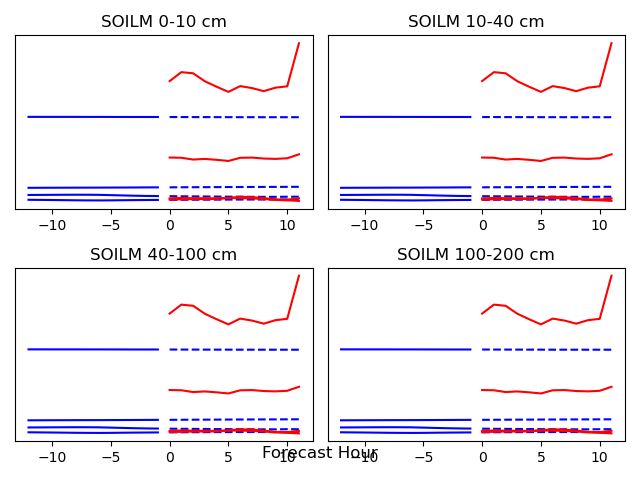
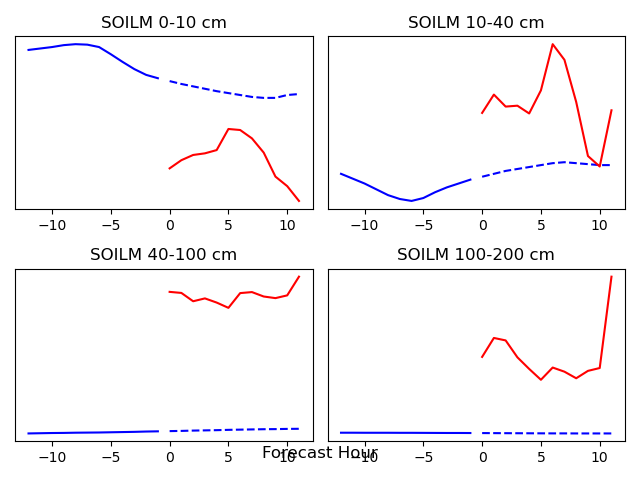
Improved plotting methods

diff --git a/plot_results.py b/plot_results.py
@@ -32,8 +32,8 @@ def plot_hist(hist_pkl:Path, fig_dir:Path=None, show:bool=False, title:str=""):
         ax[axids[0],axids[1]].plot(
                 domain[:,i], phist[i], color=c, linestyle="dashed", linewidth=1)
         ax[axids[0],axids[1]].set_title("SOILM " + depth_labels[i])
-        ax[axids[0],axids[1]].tick_params(
-                axis="y",left=False, right=False,labelleft=False)
+        #ax[axids[0],axids[1]].tick_params(
+        #        axis="y",left=False, right=False,labelleft=False)
     fig.tight_layout()
     if fig_dir:
         plt.savefig(fig_dir.joinpath(hist_pkl.stem+".png"), dpi=800)
@@ -105,7 +105,7 @@ def plot_error_horizons(error_dict, title="", fig_dir:Path=None, show=False):
             plt.savefig(fig_dir.joinpath(f"error_horizons_{k}.png"), dpi=800)
         plt.clf()
 
-def show_prediction_sequences(seq_gen, fig_dir=None, num_seqs=100):
+def show_prediction_sequences(seq_gen, fig_dir=None, show=False, num_seqs=100):
     """
     """
     for i in range(num_seqs):
@@ -115,38 +115,38 @@ def show_prediction_sequences(seq_gen, fig_dir=None, num_seqs=100):
                                sdict["true"].shape[0])
         fig,ax = plt.subplots(2,2)
         axids = [(0,0), (0,1), (1,0), (1,1)]
-        print(ax)
         for j in range(len(axids)):
             ## Plot the window, true, and predicted features
             ax[axids[j][0],axids[j][1]].plot(
                     full_range[:sdict["window"].shape[0]],
-                    sdict["window"],
+                    sdict["window"][:,j],
                     color="blue",
                     )
             ax[axids[j][0],axids[j][1]].plot(
-                    full_range[sdict["window"].shape[0]:],
-                    sdict["true"],
+                    full_range[sdict["window"].shape[0]-1:],
+                    [sdict["window"][-1,j]]+list(sdict["true"][:,j]),
                     color="blue",
                     linestyle="dashed",
                     )
             ax[axids[j][0],axids[j][1]].plot(
-                    full_range[sdict["window"].shape[0]:],
-                    sdict["prediction"],
-                    color="red"
+                    full_range[sdict["window"].shape[0]-1:],
+                    [sdict["window"][-1,j]]+list(sdict["prediction"][:,j]),
+                    color="red",
                     )
             ax[axids[j][0],axids[j][1]].set_title("SOILM " + depth_labels[j])
-            ax[axids[j][0],axids[j][1]].tick_params(
-                    axis="y",left=False, right=False,labelleft=False)
         fig.tight_layout()
         fig.suptitle("".format(time=sdict["time"]))
         fig.supxlabel("Forecast Hour",y=.04)
+        fig.supylabel("Soil Moisture ($kg\,m^{-3}$$",y=.04)
         if not fig_dir is None:
             fig.savefig(fig_dir.joinpath(f"sequence_{i}.png"))
-        #plt.show()
+        if show:
+            plt.show()
+        plt.clf()
 
 if __name__ == "__main__":
-    #data_dir = Path("data")
-    data_dir = Path("/rstor/mdodson/thesis")
+    data_dir = Path("data")
+    #data_dir = Path("/rstor/mdodson/thesis")
     fig_dir = Path("figures")
 
     '''
@@ -165,11 +165,11 @@ if __name__ == "__main__":
 
     sgen = gen_pred_seqs(
             sample_h5=data_dir.joinpath("shuffle_2018.h5"),
-            #pred_h5=data_dir.joinpath("pred_2018_dense-1_V2.h5"),
-            #pred_h5=data_dir.joinpath("pred_2018_lstm-rec-1_V2.h5"),
-            pred_h5=data_dir.joinpath("pred_2018_lstm-s2s-2_V2.h5"),
-            #pred_h5=data_dir.joinpath("pred_2018_lstm-s2s-5_V2.h5"),
-            #pred_h5=data_dir.joinpath("pred/pred_2018_tcn-1_V2.h5"),
+            #pred_h5=data_dir.joinpath("pred/pred_2018_dense-1_V2.h5"),
+            #pred_h5=data_dir.joinpath("pred/pred_2018_lstm-rec-1_V2.h5"),
+            #pred_h5=data_dir.joinpath("pred/pred_2018_lstm-s2s-2_V2.h5"),
+            #pred_h5=data_dir.joinpath("pred/pred_2018_lstm-s2s-5_V2.h5"),
+            pred_h5=data_dir.joinpath("pred/pred_2018_tcn-1_V2.h5"),
 
             pred_feats=['soilm-10', 'soilm-40', 'soilm-100', 'soilm-200'],
             window_size=12
@@ -177,7 +177,8 @@ if __name__ == "__main__":
     show_prediction_sequences(
             seq_gen=sgen,
             num_seqs=10,
-            fig_dir=fig_dir.joinpath(f"sequences"),
+            show=True
+            #fig_dir=fig_dir.joinpath(f"sequences"),
             )
 
 

diff --git a/model_evaluate.py b/model_evaluate.py
@@ -61,8 +61,6 @@ def gen_pred_seqs(
     flabels = list(sG.attrs["flabels"])
     slabels = list(sG.attrs["slabels"])
 
-    print(pG.attrs["config"])
-
     pred_idxs = tuple(flabels.index(p) for p in pred_feats)
 
     P = pG["prediction"]
